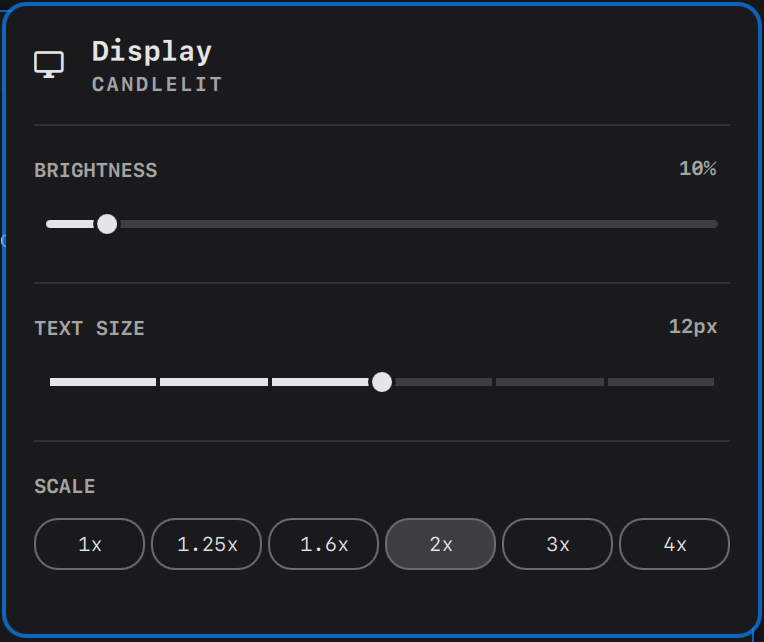
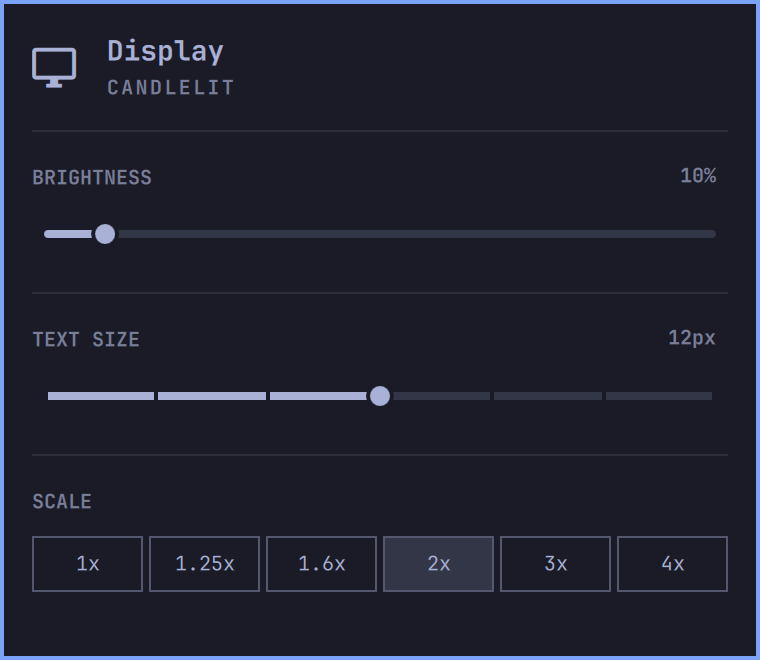
Show vanilla Omarchy in the before screenshots
Every "before" image now shows Omarchy as installed: Tokyo Night, the
JetBrainsMono Nerd Font and Omarchy's own plugins, with made-up data.
New befores for the Keybindings view and search, the speed tests and the
Wi-Fi QR code. The dock and guide befores are removed, because Omarchy
has neither; an outdated keybindings image is removed too.

docs/screenshots/demo/vanilla-mode switches to that setup for captures
and back: it saves shell.json, the theme, the font files and
OMARCHY_MENU_FONT, and runs copies of Omarchy's Wi-Fi, Bluetooth, Claude
Code, speed test and QR panels with demo-mode's made-up data. demo-mode
keeps its name counter inside the map, so it no longer loops bindings.

Claude-Session: https://claude.ai/code/session_01Hu6pgaYtbFMTJVzXwUxnRs

diff --git a/README.md b/README.md
@@ -113,7 +113,7 @@ The theme's color tokens are in `colors.toml`. Templates in `files/.config/omarc
 
 Omarchy 4 draws the bar, the menus, the panels and the overlays in one Quickshell process. This repo has Graphite copies of those plugins (`files/.config/omarchy/plugins/graphite.*`). They use shared parts from `plugins/graphite-ui/`: group, label, value field, button, switch, slider, keycap, chip, search field and more. `install.sh` turns them on. Omarchy's own files are not changed.
 
-The screenshots show made-up data. `docs/screenshots/demo/demo-mode on` makes the panels show made-up network names, devices, addresses and a made-up Wi-Fi QR code. `demo-mode off` restores them.
+"Before" images show Omarchy as installed: the Tokyo Night theme, the JetBrainsMono Nerd Font and Omarchy's own plugins. All screenshots show made-up data. In `docs/screenshots/demo/`, `demo-mode on` makes the Graphite panels show made-up network names, devices, addresses and a made-up Wi-Fi QR code, and `vanilla-mode on` does the same for Omarchy's own panels. `off` restores your setup.
 
 ### Menu and keybindings
 
@@ -123,9 +123,19 @@ The Omarchy menu has named groups (Go to, Configure, System). The Keybindings vi
 |---|---|
 | ![Omarchy menu before](docs/screenshots/menu-before.png) | ![Omarchy menu with Graphite groups](docs/screenshots/menu-after.png) |
 
+Keybindings, before:
+
+![Omarchy Keybindings menu](docs/screenshots/keybindings-view-before.png)
+
+Keybindings, after:
+
 ![Keybindings view with sections, chips and keycaps](docs/screenshots/keybindings-groups.png)
 
-![Keybindings search for "workspace 3"](docs/screenshots/keybindings-search.png)
+Search for "workspace 3", before and after:
+
+![Omarchy Keybindings search](docs/screenshots/keybindings-search-before.png)
+
+![Graphite Keybindings search](docs/screenshots/keybindings-search.png)
 
 ### Bar panels
 
@@ -141,9 +151,11 @@ Wi-Fi, Bluetooth, Audio, Display and Claude Code. One click on another bar icon 
 
 ### Speed tests and Wi-Fi sharing
 
-| Internet speed | Disk speed | Wi-Fi QR code |
+| | Before | After |
 |---|---|---|
-| ![Internet speed test](docs/screenshots/speedtest-after.png) | ![Disk speed test](docs/screenshots/disk-speedtest-after.png) | ![Wi-Fi QR code](docs/screenshots/wifiqr-after.png) |
+| Internet speed | ![Internet speed test before](docs/screenshots/speedtest-before.png) | ![Internet speed test after](docs/screenshots/speedtest-after.png) |
+| Disk speed | ![Disk speed test before](docs/screenshots/disk-speedtest-before.png) | ![Disk speed test after](docs/screenshots/disk-speedtest-after.png) |
+| Wi-Fi QR code | ![Wi-Fi QR code before](docs/screenshots/wifiqr-before.png) | ![Wi-Fi QR code after](docs/screenshots/wifiqr-after.png) |
 
 ### Files
 
@@ -156,11 +168,11 @@ Graphite styles for the Files app (Nautilus) in `files/.config/gtk-4.0/gtk.css`.
 
 ### Workspace guide
 
-The guide page (`files/.local/share/workspace-guide/index.html`) is also the component sheet.
+The guide page (`files/.local/share/workspace-guide/index.html`) is also the component sheet. Omarchy has no guide page, so there is no "before" image.
 
-| Before | After |
-|---|---|
-| ![Guide before](docs/screenshots/guide-before.png) | ![Guide after](docs/screenshots/guide-after.png) |
+![Workspace guide](docs/screenshots/guide-after.png)
+
+[The full guide page](docs/screenshots/guide-after-full.png)
 
 ### Cursor
 
@@ -168,11 +180,9 @@ The pre-Tahoe macOS cursor theme (`apple_cursor` package), set in `files/.config
 
 ### Dock
 
-A Graphite plugin in the Omarchy shell (`files/.config/omarchy/plugins/graphite.dock/`) at the bottom of the screen. It hides until the pointer reaches the bottom edge. Right-click an icon to pin or unpin it, add or remove a gap, or empty the trash. It replaces `nwg-dock-hyprland`, which drew blurry and missing icons. The base pins are still in `files/.config/nwg-dock-hyprland/pinned`, and `projects-apply` adds your project sites. To go back to `nwg-dock-hyprland`, run `omarchy plugin disable graphite.dock`, then `dock-start`.
+A Graphite plugin in the Omarchy shell (`files/.config/omarchy/plugins/graphite.dock/`) at the bottom of the screen. It hides until the pointer reaches the bottom edge. Right-click an icon to pin or unpin it, add or remove a gap, or empty the trash. Omarchy has no dock, so there is no "before" image. The Graphite dock replaces `nwg-dock-hyprland`, which drew blurry and missing icons. The base pins are still in `files/.config/nwg-dock-hyprland/pinned`, and `projects-apply` adds your project sites. To go back to `nwg-dock-hyprland`, run `omarchy plugin disable graphite.dock`, then `dock-start`.
 
-| Before | After |
-|---|---|
-| ![nwg-dock before](docs/screenshots/dock-before.png) | ![Graphite dock](docs/screenshots/dock-after.png) |
+![Graphite dock](docs/screenshots/dock-after.png)
 
 ### Display
 
